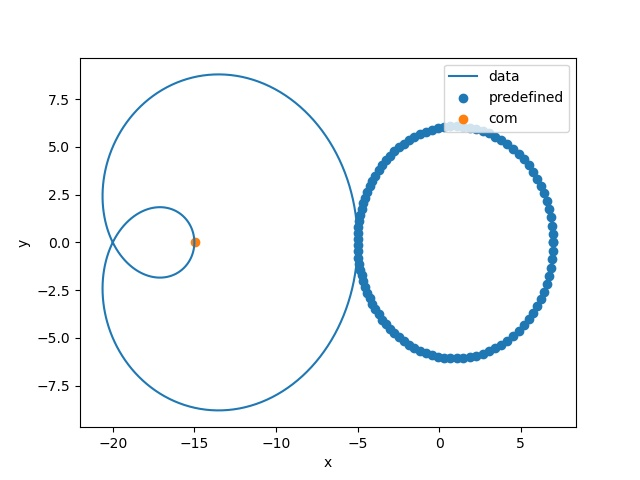
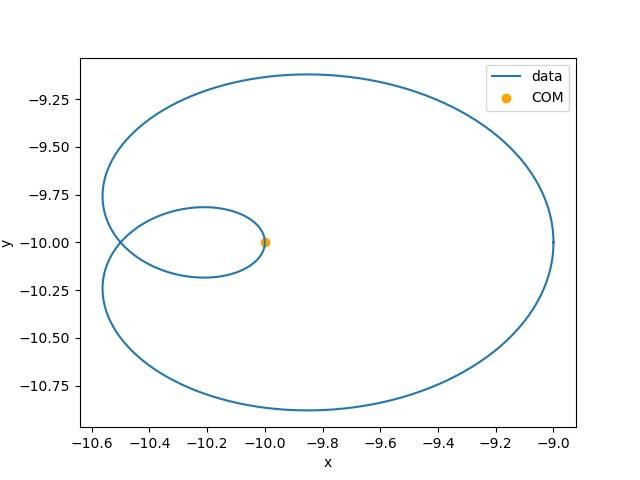
Fixes III

diff --git a/class_trade.py b/class_trade.py
@@ -6,6 +6,7 @@ Predefined points used in get_com_distance_list can be generated and saved to fi
 import os
 import pandas as pd
 import matplotlib.pyplot as plt
+from datetime import timedelta
 import settings
 
 
@@ -20,14 +21,10 @@ class Trade:
     def __init__(self, file_path, separator='\t'):
 
         self.data = pd.read_csv(file_path, sep=separator, dtype={'Unnamed: 0': str, 'x': float, 'y': float})
-        col_str_index = 0
-        column_names = self.data.columns
-        string_column = column_names[col_str_index]
-        self.data[string_column] = pd.to_datetime(self.data[string_column], format='%Y-%m-%d %H:%M:%S.%f')
-        time_series = self.data[string_column].dt.strftime('%S.%f').astype(float)
-        self.data['time'] = time_series
+        self.datetime_column = 'Unnamed: 0'  # Name of column with time and date string
+        self.data[self.datetime_column] = pd.to_datetime(self.data[self.datetime_column], format='%Y-%m-%d %H:%M:%S.%f')
 
-    def resample_data(self, data, origin_freq_hz=50, expected_freq_hz=20):
+    def resample_data(self, expected_freq_hz=20):
         """
         Function convert signal sampled with origin_freq_hz frequency into expected_freq_hz
         :param data: data as DataFrame
@@ -36,7 +33,10 @@ class Trade:
         :return: data
         """
         # dorobić tą funkcję lepiej Bo nie działa!!!!!!!!!!!!!!!!!!!!!
-        test = data.resample('50ms')
+        self.data[string_column].subtract(self.data[string_column][0]).dt.total_seconds()
+        timedelta_test = timedelta(seconds=expected_freq_hz/1)
+
+        test = self.data.resample(rule=timedelta_test)
         print('test resample')
         return test
 
@@ -61,13 +61,14 @@ class Trade:
 
     def get_mean_velocity(self):
         """
-        Function calculate mean velocity of drawn trace based on (x,y) coordinates and time vector
+        Function calculate mean velocity of drawn trace based on (x,y) coordinates and datetime vector.
+        First value is NaN due to the differences calculated between neighboring elements.
         :param data: DataFrame with coordinates and time
         :return: data
         """
         diff_data = self.data.diff()
-        velocity_x = diff_data['x']/diff_data['time']
-        velocity_y = diff_data['y'] / diff_data['time']
+        velocity_x = diff_data['x'] / diff_data[self.datetime_column].dt.total_seconds()
+        velocity_y = diff_data['y'] / diff_data[self.datetime_column].dt.total_seconds()
         mean_velocity_temp = velocity_x.pow(2).add(velocity_y.pow(2))
         mean_velocity = mean_velocity_temp.pow(0.5)
         return mean_velocity
@@ -82,20 +83,19 @@ class Trade:
         y_com = self.data['y'].mean()
         return x_com, y_com
 
-    def get_com_distance_list(self, predefined_points_path, separator):
+    def get_com_distance_list(self, predefined_points):
         """
-        Function generate list of distances between given (x,y) coordinates and center of mass from original .csv data
+        Function generate list of distances between predefined points (x,y) and center of mass from original .csv data
         :return: list
         """
         com_x, com_y = self.get_com()
-        predefined_points = pd.read_csv(predefined_points_path, sep=separator)
         distances_x = predefined_points['x'].subtract(com_x).pow(2)
         distances_y = predefined_points['y'].subtract(com_y).pow(2)
         distances_temp = distances_x.add(distances_y)
         distances = distances_temp.pow(0.5).tolist()
         return distances
 
-    def get_plot(self, filename):
+    def get_plot(self, filename, predefined_points=None):
         """
         Function to visualize trace, center of mass and predefined points
         :param data: DataFrame with x,y coordinates
@@ -104,15 +104,16 @@ class Trade:
         :return:
         """
 
+        com_x, com_y = self.get_com()
         fig, ax = plt.subplots()
         ax.plot(self.data['x'], self.data['y'])
-        predefined_points = pd.read_csv(settings.PREDEFINED_POINTS_PATH)
-        ax.scatter(predefined_points['x'], predefined_points['y'])
-        com_x, com_y = self.get_com()
-        ax.scatter(com_x, com_y)
+        ax.scatter(com_x, com_y, c='orange')
         ax.set_xlabel('x')
         ax.set_ylabel('y')
-        ax.legend(['data', 'predefined', 'com'])
+        ax.legend(['data', 'COM'])
+        if predefined_points is not None:
+            ax.scatter(predefined_points['x'], predefined_points['y'], c='green')
+            ax.legend(['data', 'COM', 'predefined'])
         plt.savefig(os.path.join(settings.REPORTS_PATH, filename))
         plt.show()
 
@@ -124,15 +125,20 @@ def main():
 
     data = Trade(file_path=settings.DATA_PATH)
     data.scale_coordinates(factor=10.0)
+    data.convert_reference_frame((5., 0))
+    data.scale_coordinates(factor=.1)
+    #test_resample = data.resample_data(expected_freq_hz=20)
     data.convert_reference_frame(displacement_vector=(10, 10))
     test_velocity = data.get_mean_velocity()
     test_com = data.get_com()
-    test_distance = data.get_com_distance_list(settings.PREDEFINED_POINTS_PATH)
-    data.get_plot(filename='interview_task_plot.jpg')
+    points = pd.read_csv(settings.PREDEFINED_POINTS_PATH, sep=',')
+    test_distance = data.get_com_distance_list(points)
+    data.get_plot(filename='interview_task_plot.jpg', predefined_points=None)
 
-    print(f'Trade statistics:\n 1. CENTER OF MASS:{test_com}, '
-          f'\n 3. MEAN VELOCITY: {test_velocity}'
-          f'\n 2. DISTANCES: {test_distance}')
+    print('Trade statistics:')
+    print(f' 1. CENTER OF MASS: {test_com},')
+    print(f' 2. MEAN VELOCITY: {test_velocity},')
+    print(f' 3. DISTANCES: {test_distance},')
 
 
 if __name__ == '__main__':

diff --git a/tests/class_trade_test.py b/tests/class_trade_test.py
@@ -11,7 +11,7 @@ from class_trade import Trade
 class TestTrade(unittest.TestCase):
 
     def test_scale_coordinates(self):
-        test_data = Trade(file_path=settings.TESTS_PATH, separator=';')
+        test_data = Trade(file_path=settings.TEST_DATA_PATH, separator=';')
         test_data.scale_coordinates(factor=-1)
         result_data = test_data.get_data()
         expect_x = pd.Series([-1.0, -2.0, -3.0, -4.0], name='x')
@@ -20,7 +20,7 @@ class TestTrade(unittest.TestCase):
         pd.testing.assert_series_equal(result_data['y'], expect_y)
 
     def test_convert_reference_frame(self):
-        test_data = Trade(file_path=settings.TESTS_PATH, separator=';')
+        test_data = Trade(file_path=settings.TEST_DATA_PATH, separator=';')
         test_data.convert_reference_frame(displacement_vector=(1.0, 1.0))
         result_data = test_data.get_data()
         expect_x = pd.Series([0.0, 1.0, 2.0, 3.0], name='x')
@@ -29,23 +29,20 @@ class TestTrade(unittest.TestCase):
         pd.testing.assert_series_equal(result_data['y'], expect_y)
 
     def test_get_mean_velocity(self):
-        test_data = Trade(file_path=settings.TESTS_PATH, separator=';')
+        test_data = Trade(file_path=settings.TEST_DATA_PATH, separator=';')
         expect = pd.Series([np.nan, 1.41, 1.41, 1.41])
         result = test_data.get_mean_velocity()
-        pd.testing.assert_series_equal(result, expect, atol=1e4)
+        pd.testing.assert_series_equal(result, expect, atol=1e-2)
 
     def test_get_com(self):
-        test_data = Trade(file_path=settings.TESTS_PATH, separator=';')
+        test_data = Trade(file_path=settings.TEST_DATA_PATH, separator=';')
         expect = (2.5, 2.5)
         result = test_data.get_com()
         self.assertTupleEqual(result, expect)
 
     def test_com_distance_list(self):
-        test_data = Trade(file_path=settings.TESTS_PATH, separator=';')
-        result = test_data.get_com_distance_list(settings.TEST_PREDEFINED_POINTS, separator=";")
+        test_data = Trade(file_path=settings.TEST_DATA_PATH, separator=';')
+        points = pd.read_csv(settings.TEST_PREDEFINED_POINTS_PATH, sep=';')
+        result = test_data.get_com_distance_list(points)
         expect = [2.12132, 0.707107, 0.707107, 2.12132]
         np.testing.assert_almost_equal(result, expect, decimal=3)
-
-
-
-

diff --git a/settings.py b/settings.py
@@ -1,5 +1,7 @@
 DATA_PATH = './data/interview_data.csv'
 PREDEFINED_POINTS_PATH = './data/predefined_points.csv'
+
+TEST_DATA_PATH = './test_data.csv'
+TEST_PREDEFINED_POINTS_PATH = './test_predefined_points.csv'
+
 REPORTS_PATH = './reports'
-TESTS_PATH = './test_file_integeres.csv'
-TEST_PREDEFINED_POINTS = './test_predefined_points.csv'
